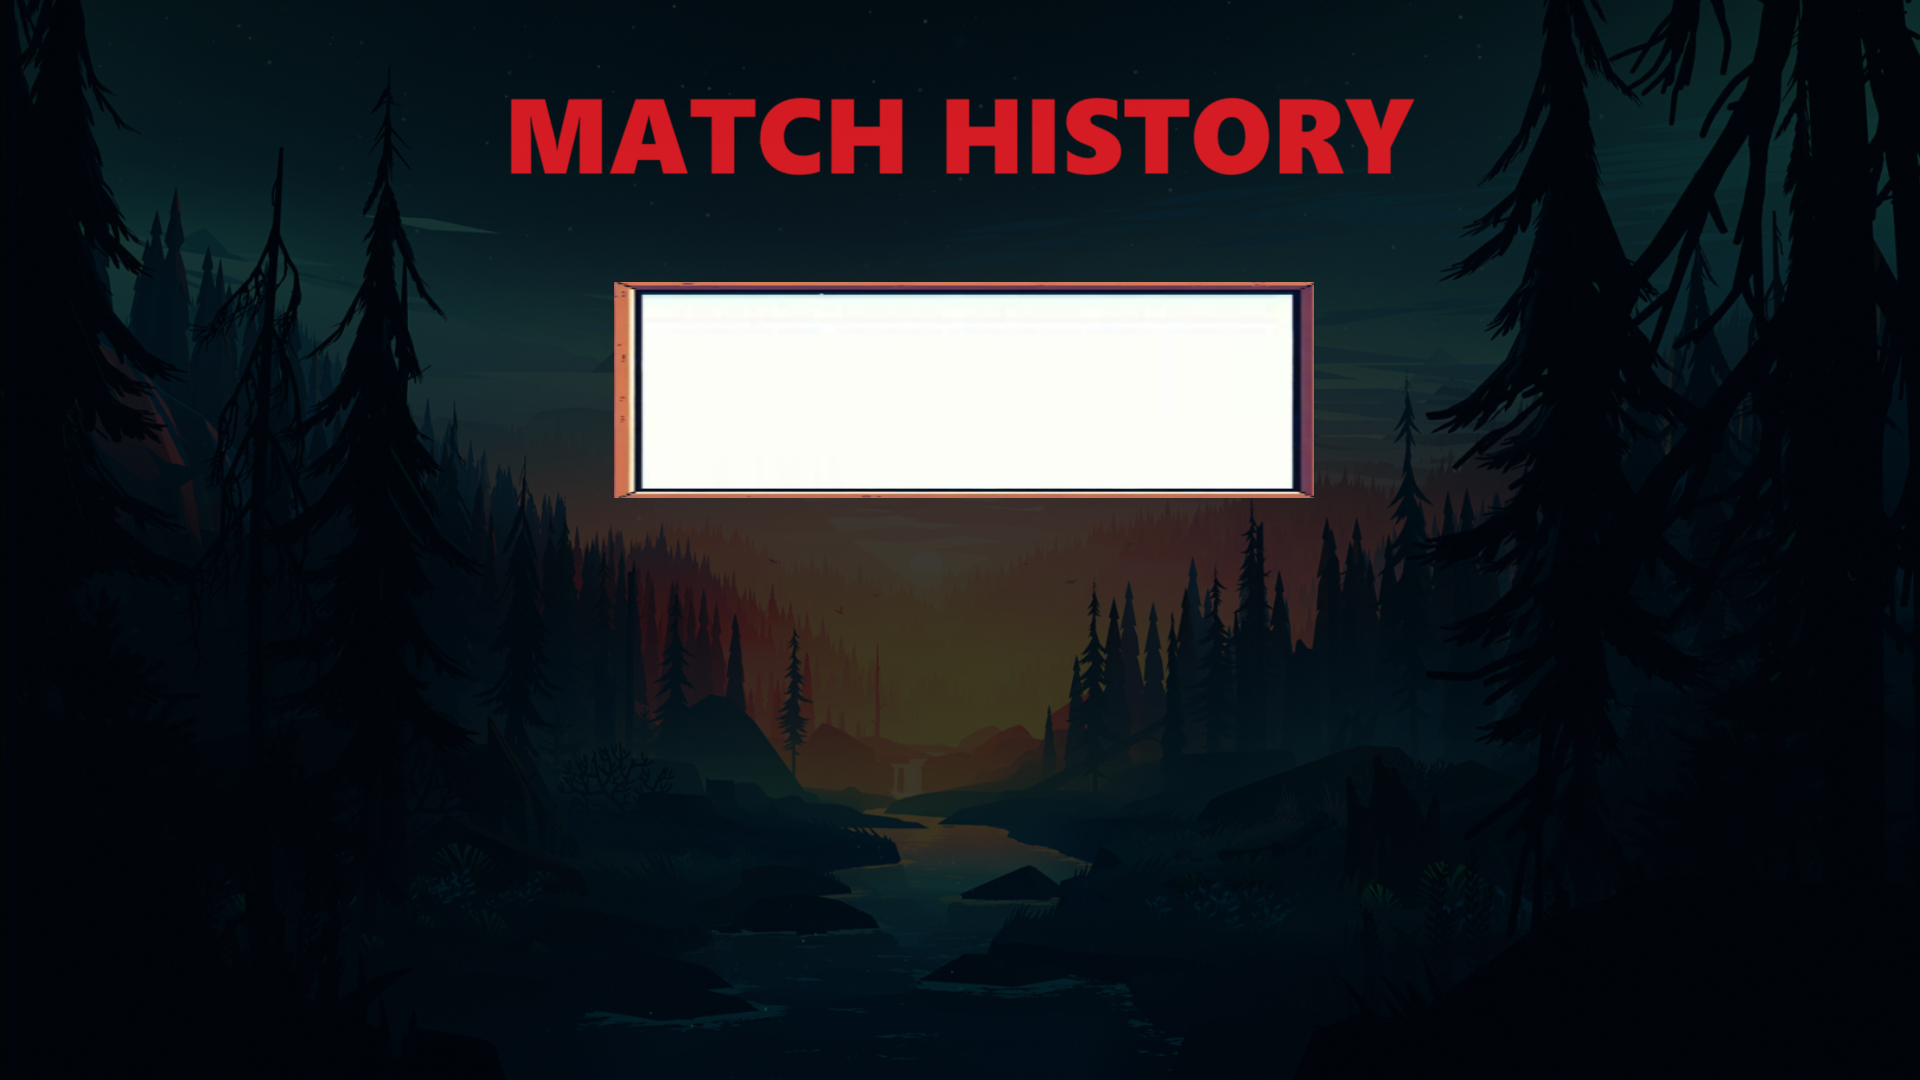
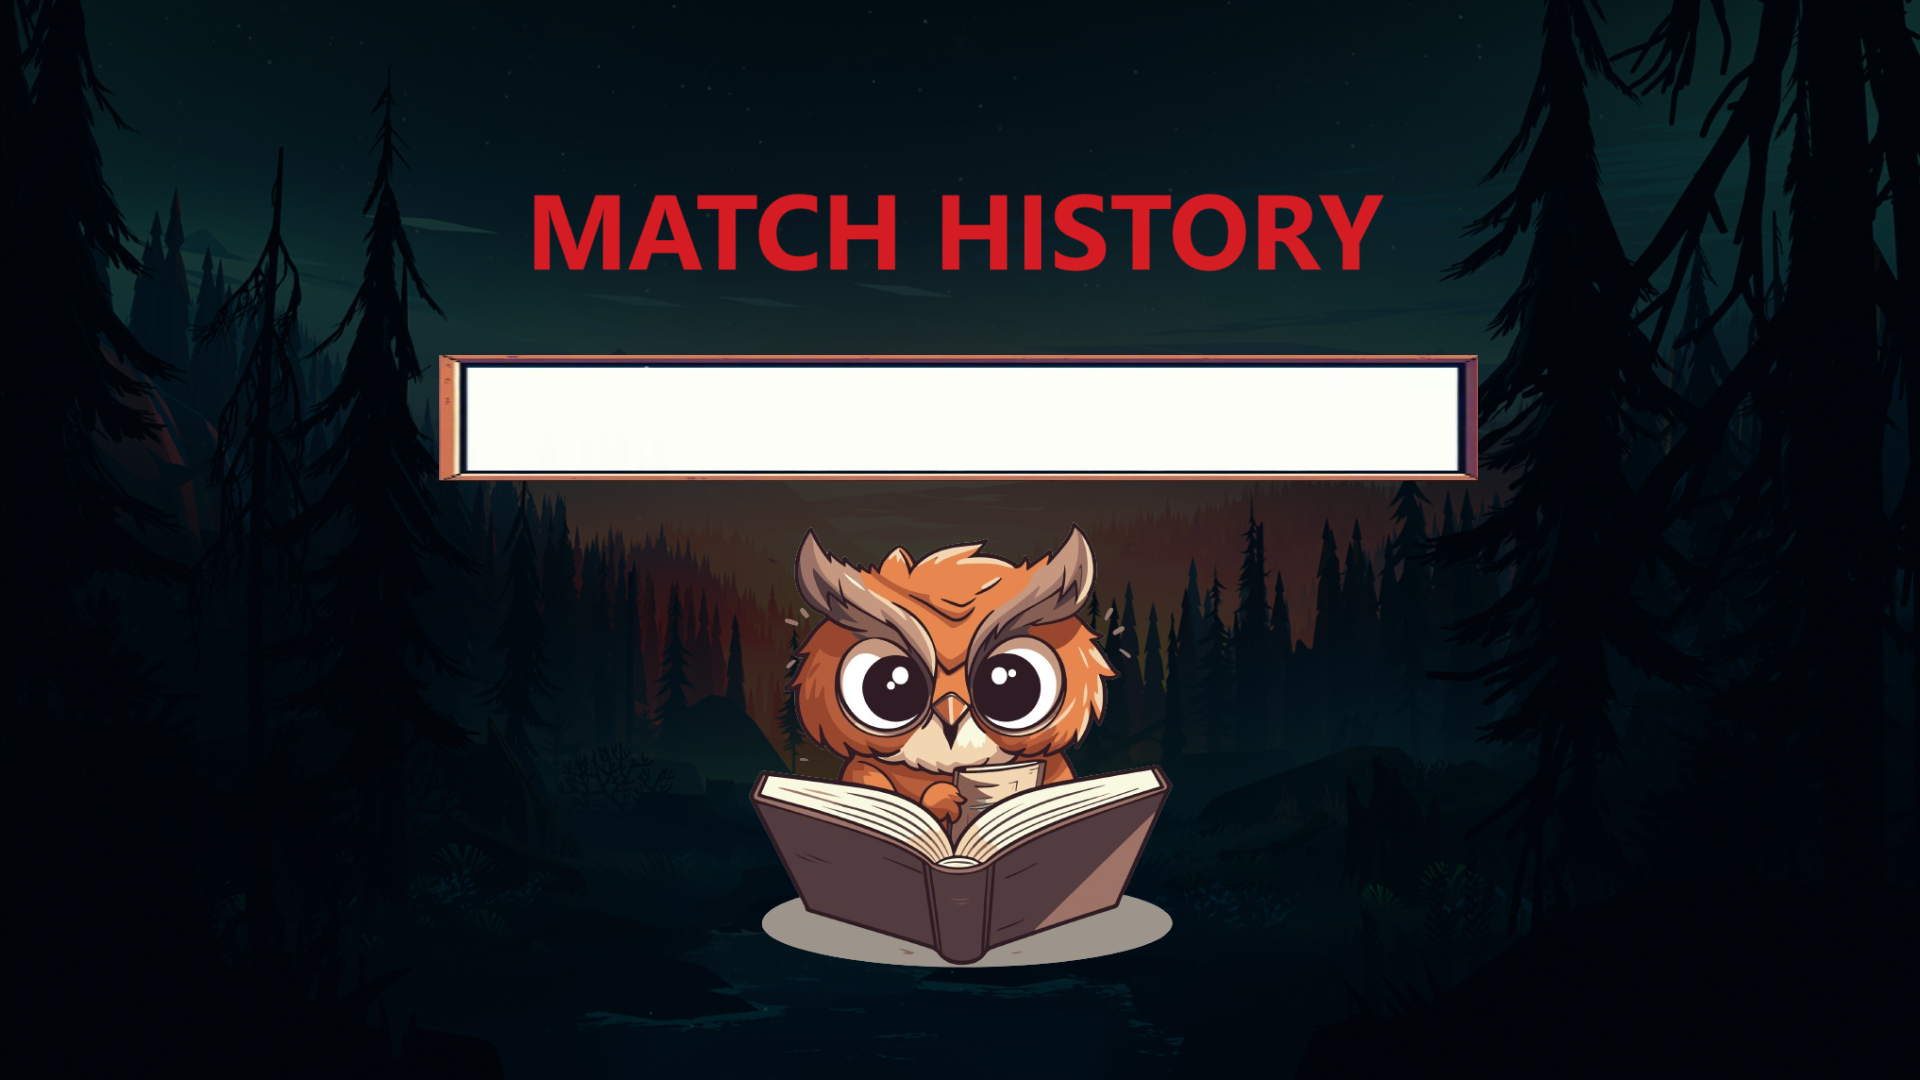
can lai history

Changed region(s): [[0.2188, 0.0917, 0.7812, 0.4583], [0.375, 0.4889, 0.625, 0.9167]]

diff --git a/main/merge.py b/main/merge.py
@@ -372,7 +372,6 @@ def readHistorLineFromFile():
             historyLine.seek(0) #trỏ vào đầu chuỗi đấy
             historyLine.write(lines[line_number]) #viết mới vào biến đệm str historyline
 
-    # Không có trả về text nên k hiển thị
 
 class History:
     def __init__(self):
@@ -382,8 +381,8 @@ class History:
         self.image = pygame.transform.smoothscale(self.image, WINDOW_SIZES[WINDOW_SIZE_INDEX])
         readHistorLineFromFile()
         self.historyText = font.render(historyLine.getvalue(), True, pygame.Color("red")) 
-        self.LEFT_BUTTON = Button(pos=(screen.get_width() * 0.29, screen.get_height() * 0.35), imageNormal = "buttonToLeft.png", imageChanged = "buttonToLeft.png")
-        self.RIGHT_BUTTON = Button(pos=(screen.get_width() * 0.71, screen.get_height() * 0.35), imageNormal = "buttonToRight.png", imageChanged = "buttonToRight.png")
+        self.LEFT_BUTTON = Button(pos=(screen.get_width() * 0.20, screen.get_height() * 0.38), imageNormal = "buttonToLeft.png", imageChanged = "buttonToLeft.png")
+        self.RIGHT_BUTTON = Button(pos=(screen.get_width() * 0.80, screen.get_height() * 0.38), imageNormal = "buttonToRight.png", imageChanged = "buttonToRight.png")
         self.back_button = Button(pos=(screen.get_width() / 2 * 1.05 , screen.get_height() * 0.65), imageNormal = "back.png", imageChanged = "back2.png")
     def draw(self, mouse_pos):
         global historyLine
@@ -391,7 +390,7 @@ class History:
         self.LEFT_BUTTON.update(mouse_pos)
         self.RIGHT_BUTTON.update(mouse_pos)
         self.historyText = font.render(historyLine.getvalue(), True, pygame.Color("red")) 
-        screen.blit(self.historyText, (screen.get_width() / 3, screen.get_height() / 3))
+        screen.blit(self.historyText, (screen.get_width() * 0.26, screen.get_height() * 0.36))
 
     def update(self, event):
         global traceBackCount
